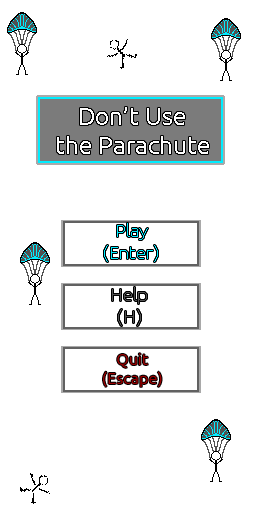
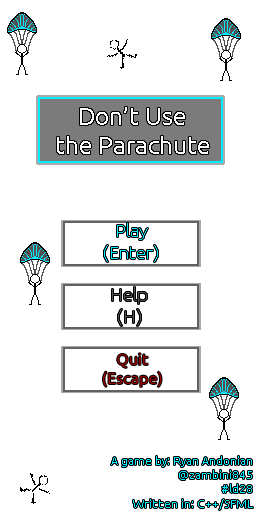
Polish
Added credits to title screen
Moved the score over a bit

Changed region(s): [[0.4375, 0.7188, 1.0, 1.0]]

diff --git a/LD28/GameScreen.cpp b/LD28/GameScreen.cpp
@@ -105,7 +105,7 @@ GameScreen::GameScreen(void) : GRAVITY(50.0f), MAX_FALL_VELOCITY(500), MIN_FALL_
 	mScoreText.setCharacterSize(14);
 	mScoreText.setStyle(sf::Text::Regular);
 	mScoreText.setColor(sf::Color::Blue);
-	mScoreText.setPosition(360.0f, 10.0f);
+	mScoreText.setPosition(320.0f, 10.0f);
 
 	mPromptText.setCharacterSize(20);
 	mPromptText.setStyle(sf::Text::Regular);
